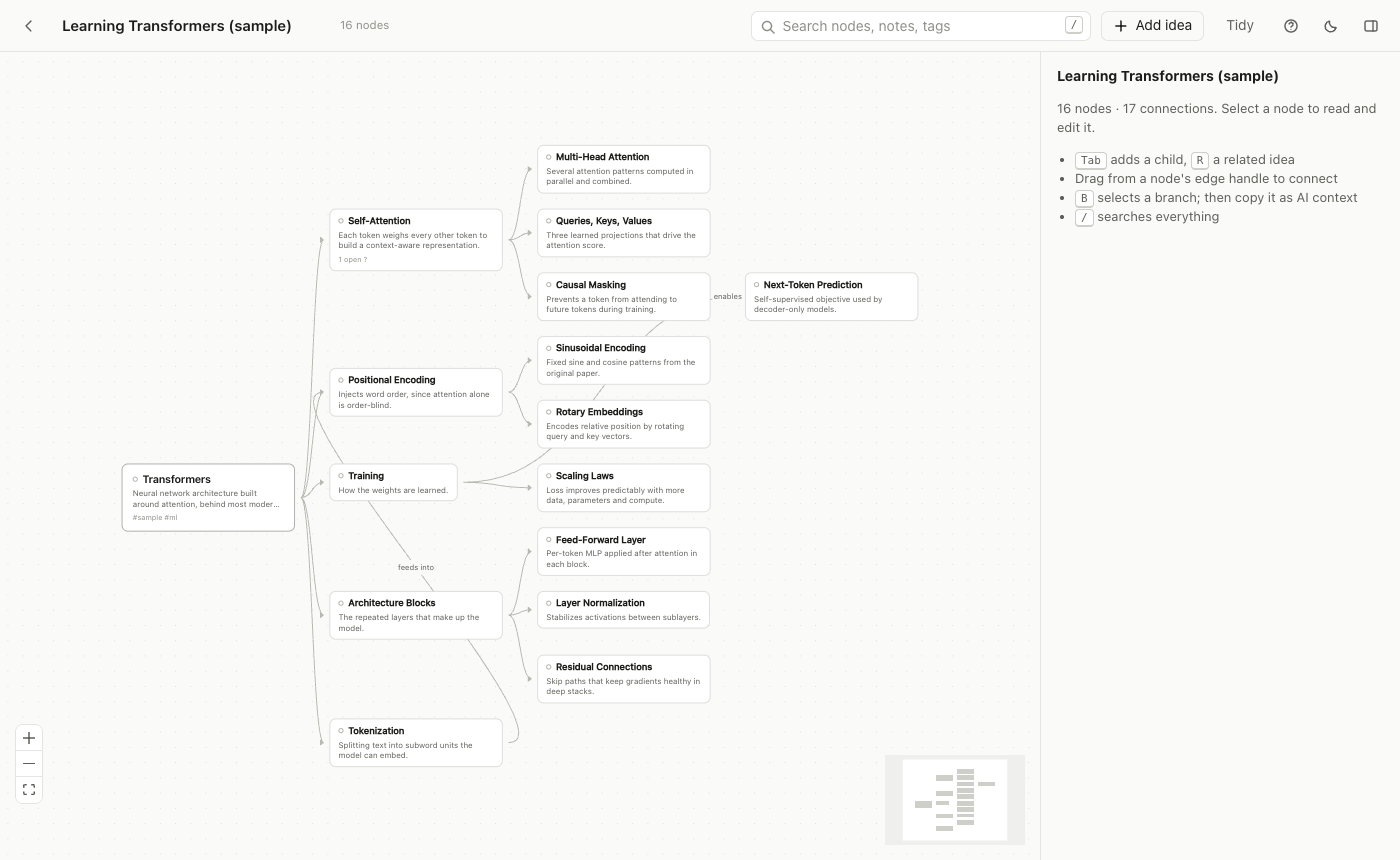
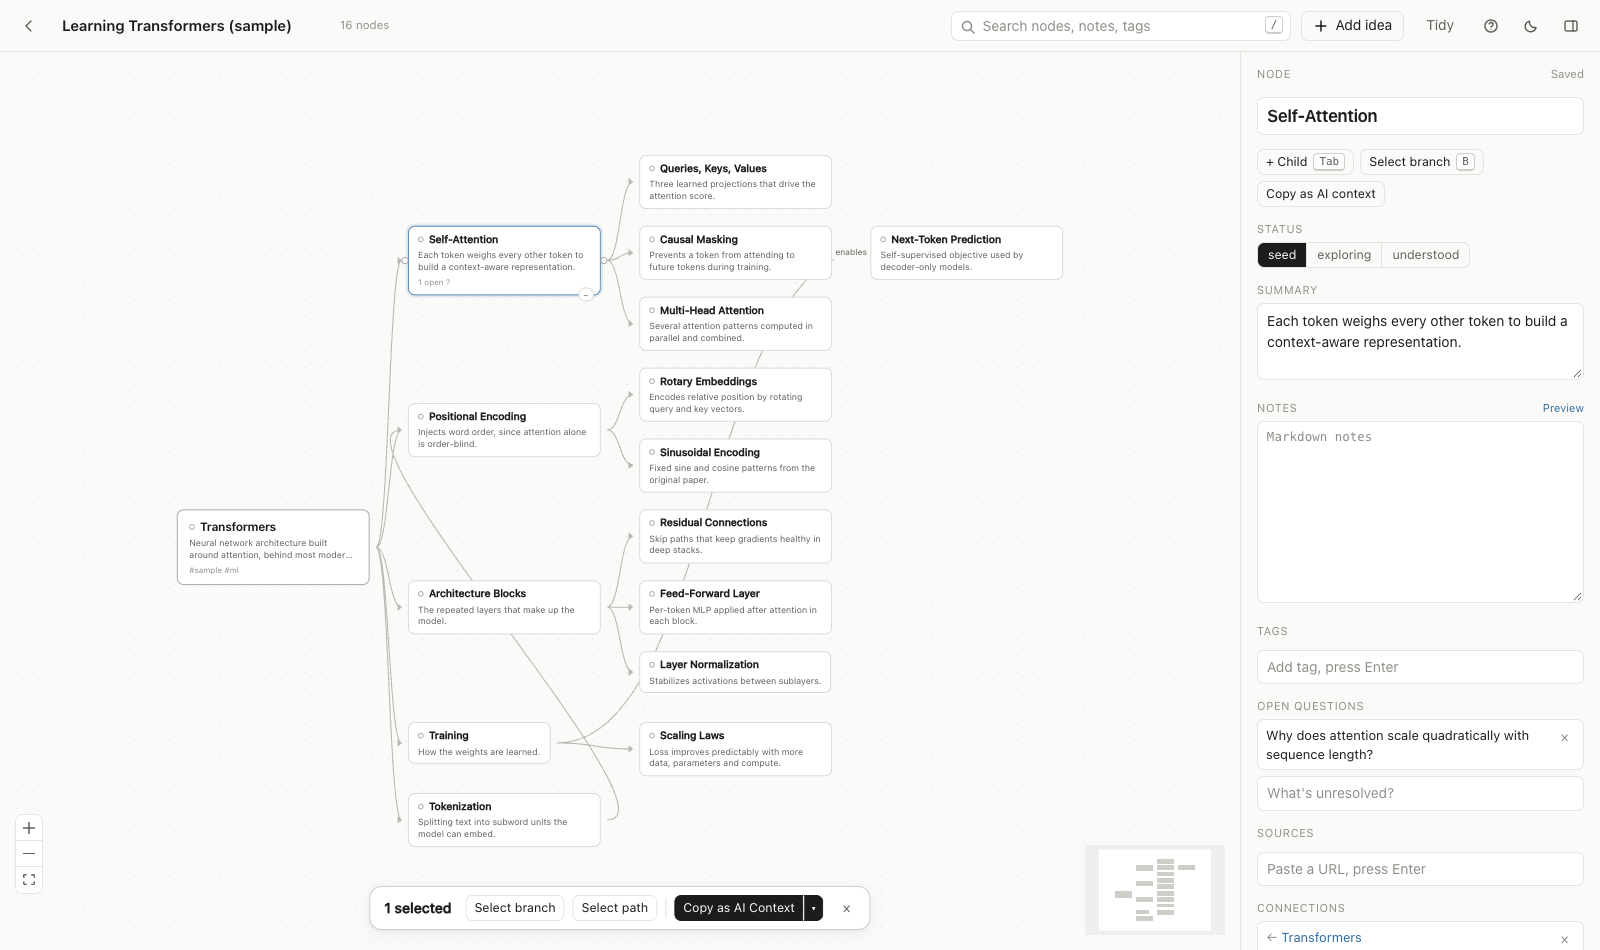
Polish README to portfolio standard and refresh screenshot

diff --git a/README.md b/README.md
@@ -2,54 +2,17 @@
 
 A local-first visual knowledge graph that people edit by hand and AI agents extend through 12 MCP tools, with duplicate protection and provenance on every AI-added node.
 
-![Living Mindmap web UI showing the sample map](docs/screenshot.png)
+[![Living Mindmap web UI with the Learning Transformers sample map and the inspector open on a node](docs/screenshot.png)](#quick-start)
 
-The screenshot shows the bundled sample map, "Learning Transformers (sample)". All data in this repository is sample data. A short animated GIF of the editing flow is a planned addition.
+The screenshot shows the bundled sample map, "Learning Transformers (sample)". All data in this repository is sample data. There is no hosted demo. The app runs locally, so see [Quick start](#quick-start).
+
+## In 30 seconds
+
+- **Problem:** Ideas from long AI conversations vanish into chat history.
+- **Build:** One SQLite store shared by a React Flow UI, a REST API, and a stdio MCP server with near-duplicate detection.
+- **Result:** 42 tests, 0 failures across 160 real MCP calls, 0.5 ms median per call.
 
 Everything is stored in one SQLite file. There are no accounts and no cloud services.
-
-## Architecture
-
-```mermaid
-flowchart LR
-  Human([Person]) --> UI[React + React Flow UI]
-  UI -->|REST, loopback only| API[Express API]
-  Agent([AI client]) -->|MCP over stdio| MCP[MCP server]
-  API --> Store[Store]
-  MCP --> Store
-  Store --> DB[(SQLite file, WAL mode)]
-```
-
-The web server and the MCP server are separate processes that open the same SQLite file. The UI polls every few seconds, so edits made by an agent appear in an open browser tab.
-
-```
-src/core/     schema, migrations, Store (all reads and writes), search, duplicate detection, AI context builder
-src/shared/   pure graph helpers (branches, collapse, tidy layout)
-src/server/   Express REST API (loopback only) and static UI hosting
-src/mcp/      MCP server (stdio) on top of the same Store
-src/web/      React and React Flow UI
-tests/        vitest suites for store, graph, context, REST API and MCP tools
-scripts/      MCP verification, benchmark, screenshot and browser end-to-end scripts
-```
-
-## MCP tools
-
-| Tool | Purpose |
-| --- | --- |
-| `list_maps` | Find the right map |
-| `get_map` | Compact nodes and edges of a map |
-| `search_nodes` | Full-text search in one map or all maps |
-| `get_node` | One node in full with parents, children and sources |
-| `create_node` | Add a concept, optionally linked to a parent with a relationship label |
-| `update_node` | Replace fields, or enrich with `append_notes`, `add_tags` and `add_questions` |
-| `delete_node` | Requires `confirm: true`, otherwise returns a preview |
-| `create_edge` | Connect two nodes (idempotent) |
-| `delete_edge` | Remove one connection |
-| `get_branch` | A node with its descendants, or its ancestors |
-| `add_source` | Attach a URL as evidence, without duplicates |
-| `get_ai_context` | Markdown or JSON context for a root, branch or list of ids |
-
-Two behaviors are worth knowing. First, `create_node` rejects near-duplicate titles and returns the candidates, and `allow_duplicate: true` overrides the check. Second, every node written through MCP carries `provenance: ai`, and the UI shows a small AI marker. Errors are structured as `{ error, code, details }` and never crash the server.
 
 ## Quick start
 
@@ -92,6 +55,49 @@ Claude Desktop (`claude_desktop_config.json`):
 
 Then try this prompt: "Add our discussion about episodic versus semantic agent memory to my Living Mindmap."
 
+## MCP tools
+
+| Tool | Purpose |
+| --- | --- |
+| `list_maps` | Find the right map |
+| `get_map` | Compact nodes and edges of a map |
+| `search_nodes` | Full-text search in one map or all maps |
+| `get_node` | One node in full with parents, children and sources |
+| `create_node` | Add a concept, optionally linked to a parent with a relationship label |
+| `update_node` | Replace fields, or enrich with `append_notes`, `add_tags` and `add_questions` |
+| `delete_node` | Requires `confirm: true`, otherwise returns a preview |
+| `create_edge` | Connect two nodes (idempotent) |
+| `delete_edge` | Remove one connection |
+| `get_branch` | A node with its descendants, or its ancestors |
+| `add_source` | Attach a URL as evidence, without duplicates |
+| `get_ai_context` | Markdown or JSON context for a root, branch or list of ids |
+
+Two behaviors are worth knowing. First, `create_node` rejects near-duplicate titles and returns the candidates, and `allow_duplicate: true` overrides the check. Second, every node written through MCP carries `provenance: ai`, and the UI shows a small AI marker. Errors are structured as `{ error, code, details }` and never crash the server.
+
+## Architecture
+
+```mermaid
+flowchart LR
+  Human([Person]) --> UI[React + React Flow UI]
+  UI -->|REST, loopback only| API[Express API]
+  Agent([AI client]) -->|MCP over stdio| MCP[MCP server]
+  API --> Store[Store]
+  MCP --> Store
+  Store --> DB[(SQLite file, WAL mode)]
+```
+
+The web server and the MCP server are separate processes that open the same SQLite file. The UI polls every few seconds, so edits made by an agent appear in an open browser tab.
+
+```
+src/core/     schema, migrations, Store (all reads and writes), search, duplicate detection, AI context builder
+src/shared/   pure graph helpers (branches, collapse, tidy layout)
+src/server/   Express REST API (loopback only) and static UI hosting
+src/mcp/      MCP server (stdio) on top of the same Store
+src/web/      React and React Flow UI
+tests/        vitest suites for store, graph, context, REST API and MCP tools
+scripts/      MCP verification, benchmark, screenshot and browser end-to-end scripts
+```
+
 ## Using the web UI
 
 | Do this | Get this |
@@ -110,7 +116,11 @@ The benchmark in `scripts/bench.ts` starts the real stdio server and runs a scri
 
 ## Tests
 
-`npm test` runs 42 vitest tests across 6 files with all of them passing. The suites cover the store, graph layout, context export, the REST API, the seed data and the MCP tool handlers through an in-memory MCP client. `npm run typecheck` and `npm run lint` are clean, and GitHub Actions runs install, typecheck, lint, build, test and the MCP verification on Node 20 and 22. The browser acceptance flow in `npm run e2e` needs Google Chrome.
+`npm test` runs 42 vitest tests across 6 files, and all of them pass. The suites cover the store, graph layout, context export, the REST API, the seed data and the MCP tool handlers through an in-memory MCP client. `npm run typecheck` and `npm run lint` are clean, and GitHub Actions runs install, typecheck, lint, build, test and the MCP verification on Node 20 and 22. The browser acceptance flow in `npm run e2e` needs Google Chrome.
+
+## Built by
+
+Built by Garfield Greg Lim III. [Portfolio](https://monsieurgregorio2001-coder.github.io/)
 
 ## License
 
